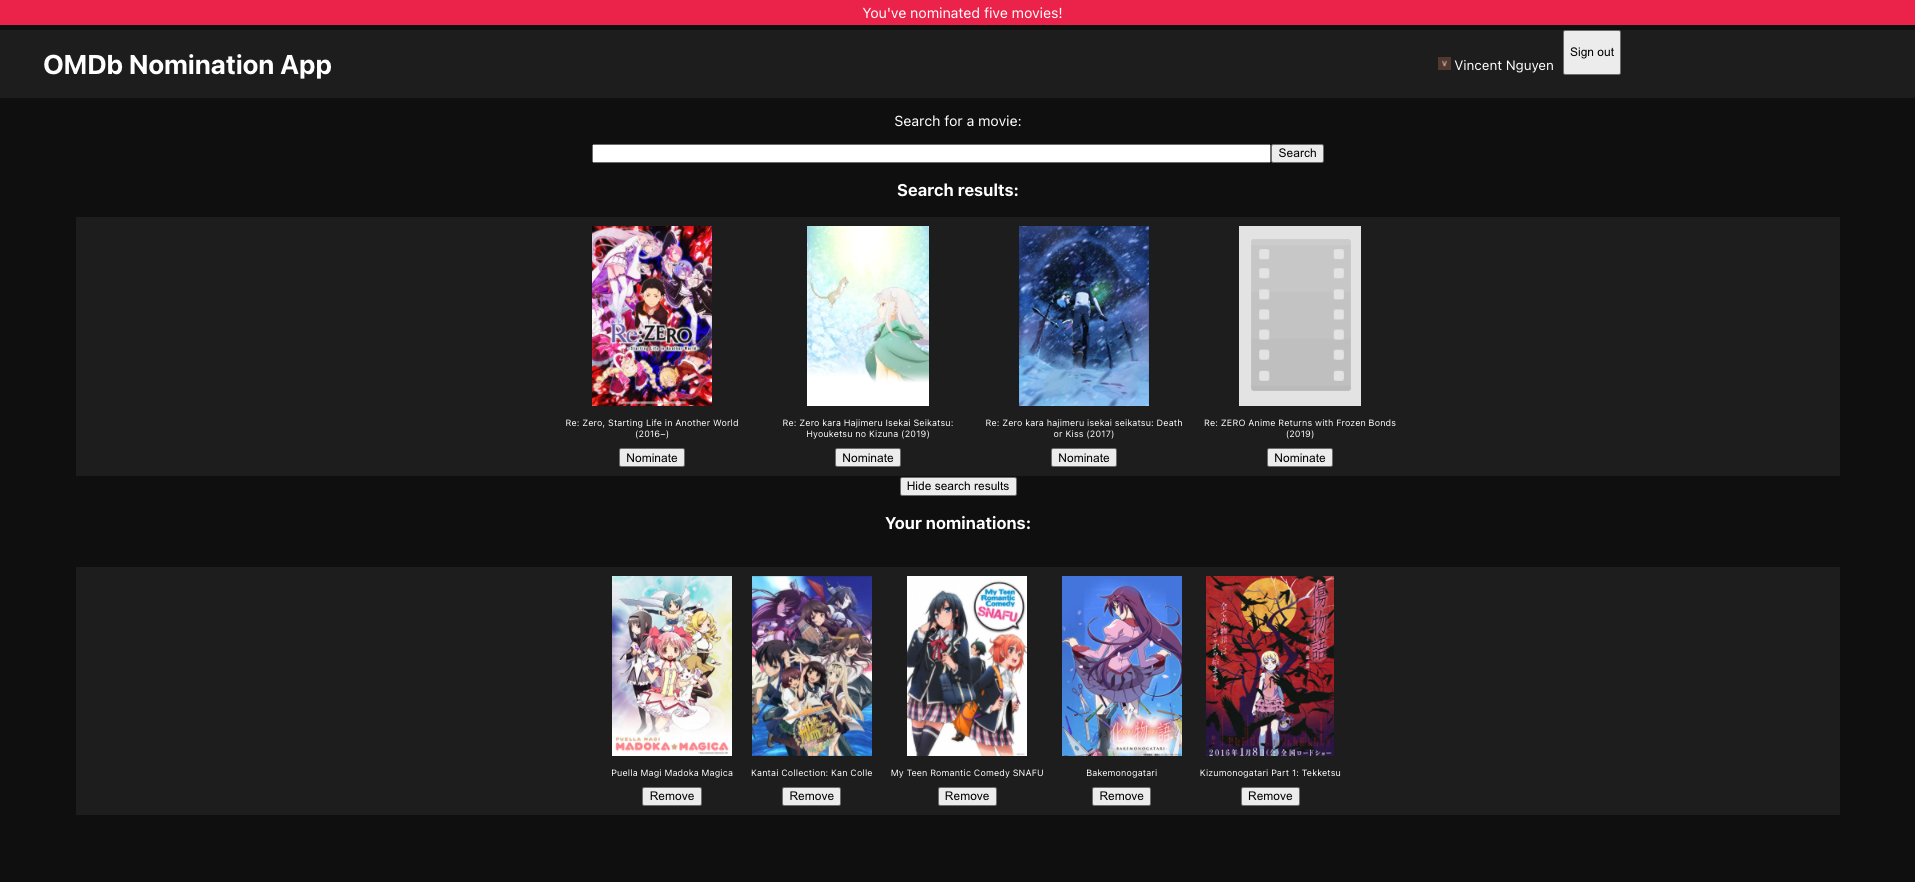
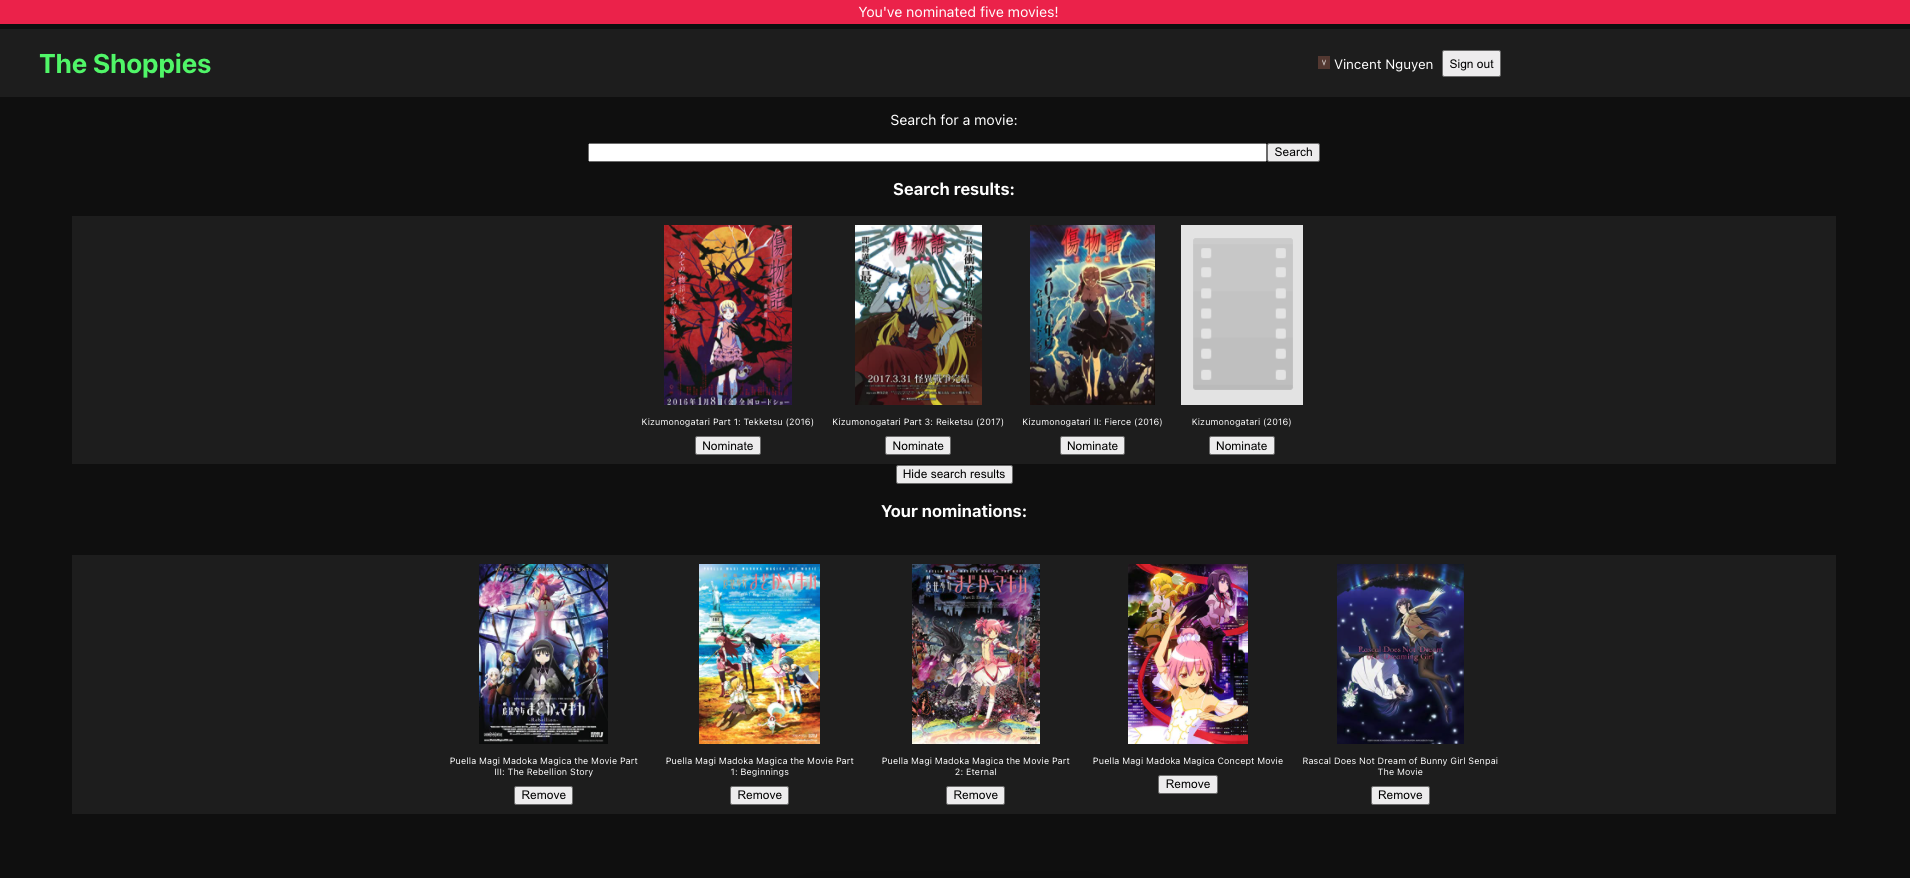
styling + changed to movies only

diff --git a/src/App.js b/src/App.js
@@ -53,7 +53,7 @@ function UserDisplay(props) {
 function Navbar(props) {
   return (
     <div className="navbar">
-        <h1>OMDb Nomination App</h1>
+        <h1>The Shoppies</h1>
         {props.user && <UserDisplay user={props.user}/>}{props.user ? <SignOut/> : <SignIn/>}
     </div>
   )
@@ -87,11 +87,12 @@ function App() {
       {nominations.length == 5 && <Banner/>}
       <Navbar user={user}/>
       <div className="omdb">
-        
-        <MovieSearch searchResults={searchResults} setSearchResults={setSearchResults}/>  
-        {searchResults !== [] && <div>{<MovieSearchDisplay results={searchResults} nominateMovie={nominateMovie}/>}</div>}
-        
+        <MovieSearch searchResults={searchResults} setSearchResults={setSearchResults}/> 
+        {!searchResults && <div className="prompt"><p>Search for a movie to begin!</p></div>}
+        {searchResults !== [] && <div>{<MovieSearchDisplay results={searchResults} nominateMovie={nominateMovie}/>}
+      
         {nominations.length > 0 && <NominationsDisplay nominations={nominations} setNominations={setNominations}/>}
+        </div>}
       </div>
     </div>
 

diff --git a/src/styles/App.css b/src/styles/App.css
@@ -13,6 +13,7 @@ body {
 
 .navbar h1 {
   margin-right: 59%;
+  color: #5FF56B;
 }
 
 .navbar p {
@@ -22,9 +23,22 @@ body {
 }
 
 .navbar button {
-  height: 50px; 
+    height: 30px;
+    position: relative;
+    top: 24px;
 }
 
+.prompt {
+  background-color: #1f1f1f;
+  height: 300px;
+  font-size: 40px;
+  width: 90%;
+  margin: auto;
+  margin-top: 20px;
+  display: flex;
+  justify-content: center;
+  align-items: center;
+}
 
 .banner {
   background-color: #ed2553;

diff --git a/src/MovieSearch.js b/src/MovieSearch.js
@@ -7,7 +7,7 @@ function MovieSearch (props) {
 
     useEffect (() => {
         if (searchTerm !== '') {
-            axios(`http://www.omdbapi.com/?apikey=${process.env.REACT_APP_API_KEY}&s=${searchTerm}`).then(res => {
+            axios(`http://www.omdbapi.com/?apikey=${process.env.REACT_APP_API_KEY}&s=${searchTerm}&type=movie`).then(res => {
                 props.setSearchResults(res.data); 
             });
         }

diff --git a/README.md b/README.md
@@ -2,12 +2,12 @@
 Created for the [Shopify UI & Web Developer Challenge Summer 2021](https://docs.google.com/document/d/1AZO0BZwn1Aogj4f3PDNe1mhq8pKsXZxtrG--EIbP_-w/edit?usp=sharing).
 
 Users can search for movies from the [Open Movie Databse](http://www.omdbapi.com/) and choose five to nominate. The users' nominations can saved by logging in with their Google account.
-## Setup
+
+![A screenshot of the application](sample.png "OMDb Viewer")
+# Setup
 1. Create a file in the root directory called `.env` and populate it with `REACT_APP_API_KEY=<Your OMDb key>` and `REACT_APP_FIREBASE_KEY=<Your Firebase key>`
 2. Run `npm install` to install the project dependencies
 3. Start the application with `npm start`
-
-![A screenshot of the application](sample.png "OMDb Viewer")
 
 # Todo:
 1. Full Firebase support
